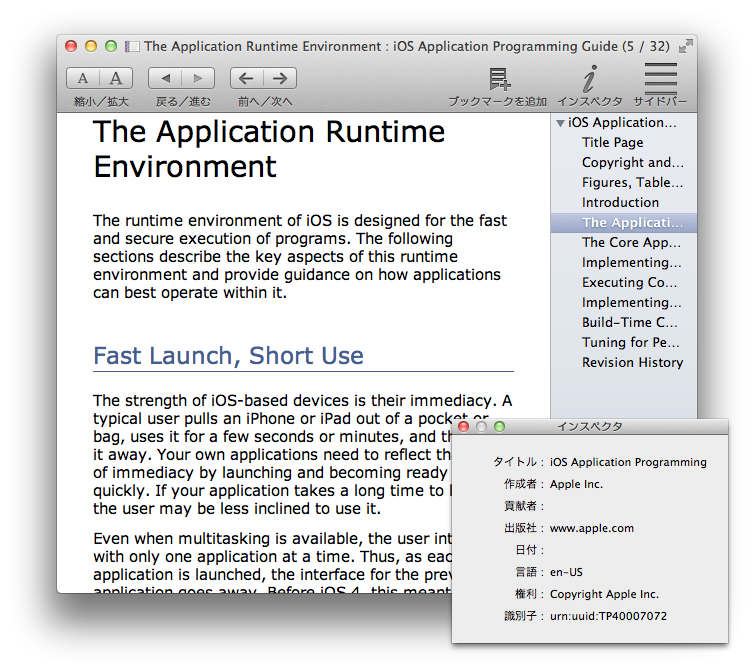
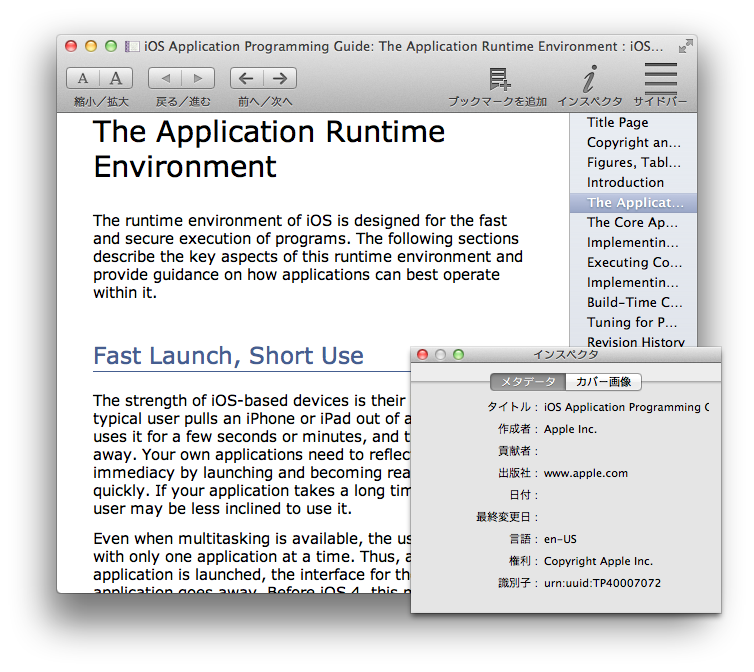
add new release Murasaki ver. 1.5

Changed region(s): [[0.122, 0.1562, 0.9761, 0.9688], [0.122, 0.3438, 0.7016, 0.4688], [0.183, 0.0625, 0.8846, 0.0938]]

diff --git a/mac/murasaki/index.html b/mac/murasaki/index.html
@@ -73,7 +73,7 @@
     <section id="download">
       <h1>ダウンロード</h1>
       <ul>
-        <li><a href="http://itunes.apple.com/jp/app/murasaki/id430300762?mt=12">ver. 1.4.2 (Mac App Store)</a></li>
+        <li><a href="http://itunes.apple.com/jp/app/murasaki/id430300762?mt=12">ver. 1.5 (Mac App Store)</a></li>
         <li><a href="./downloads/murasaki_v1.0.2.zip">ver. 1.0.2</a></li>
       </ul>
     </section>
@@ -140,6 +140,20 @@
     <section id="history">
       <h1>ヴァージョン履歴</h1>
       <dl>
+        <dt>2011年12月2日：ver. 1.5</dt>
+        <dd>EPUB3 の "page-progression-direction" 属性に対応</dd>
+        <dd>EPUB3 の Navigation Document に対応</dd>
+        <dd>EPUB のカバー画像をインスペクタに表示する機能を追加</dd>
+        <dd>環境設定ウィンドウを追加
+          <ul>
+            <li>デフォルトのフォントとサイズを設定可能（この設定は CSS によって上書きされます）</li>
+            <li>JavaScript を有効にするかどうかを設定可能</li>
+            <li>デフォルトで適用するユーザスタイルシートを設定可能</li>
+            <li>フルスクリーン時のサイズを設定可能（Lion のみ）</li>
+          </ul>
+        </dd>
+        <dd>EPUB のカバー画像をサムネイルアイコンとして表示する機能を Quick Look プラグインに追加</dd>
+
         <dt>2011年10月21日：ver. 1.4.2</dt>
         <dd>アプリケーションアイコンを修正</dd>
         <dd>いくつかのバグを修正</dd>

diff --git a/mac/murasaki/index_en.html b/mac/murasaki/index_en.html
@@ -73,7 +73,7 @@
     <section id="download">
       <h1>Download</h1>
       <ul>
-        <li><a href="http://itunes.apple.com/app/murasaki/id430300762?mt=12">ver. 1.4.2 (Mac App Store)</a></li>
+        <li><a href="http://itunes.apple.com/app/murasaki/id430300762?mt=12">ver. 1.5 (Mac App Store)</a></li>
         <li><a href="./downloads/murasaki_v1.0.2.zip">ver. 1.0.2</a></li>
       </ul>
     </section>
@@ -135,6 +135,20 @@
     <section id="history">
       <h1>Version history</h1>
       <dl>
+        <dt>2011-12-2: ver. 1.5</dt>
+        <dd>Added a support for "page-progression-direction" attribute of EPUB3</dd>
+        <dd>Added a support for Navigation Document of EPUB3</dd>
+        <dd>Added a feature that displays a cover image of EPUB to a inspector</dd>
+        <dd>Added a Preferences window
+          <ul>
+            <li>to set the default font families and sizes (but these settings are overridden by CSS)</li>
+            <li>to set the enablement of JavaScript</li>
+            <li>to set the default user style sheet</li>
+            <li>to set the content size at full screen mode (Lion only)</li>
+          </ul>
+        </dd>
+        <dd>Added a feature that displays a cover image of EPUB as thumbnail icon to Quick Look plug-in</dd>
+
         <dt>2011-10-21: ver. 1.4.2</dt>
         <dd>Fixed Application icon</dd>
         <dd>Fixed some bugs</dd>
